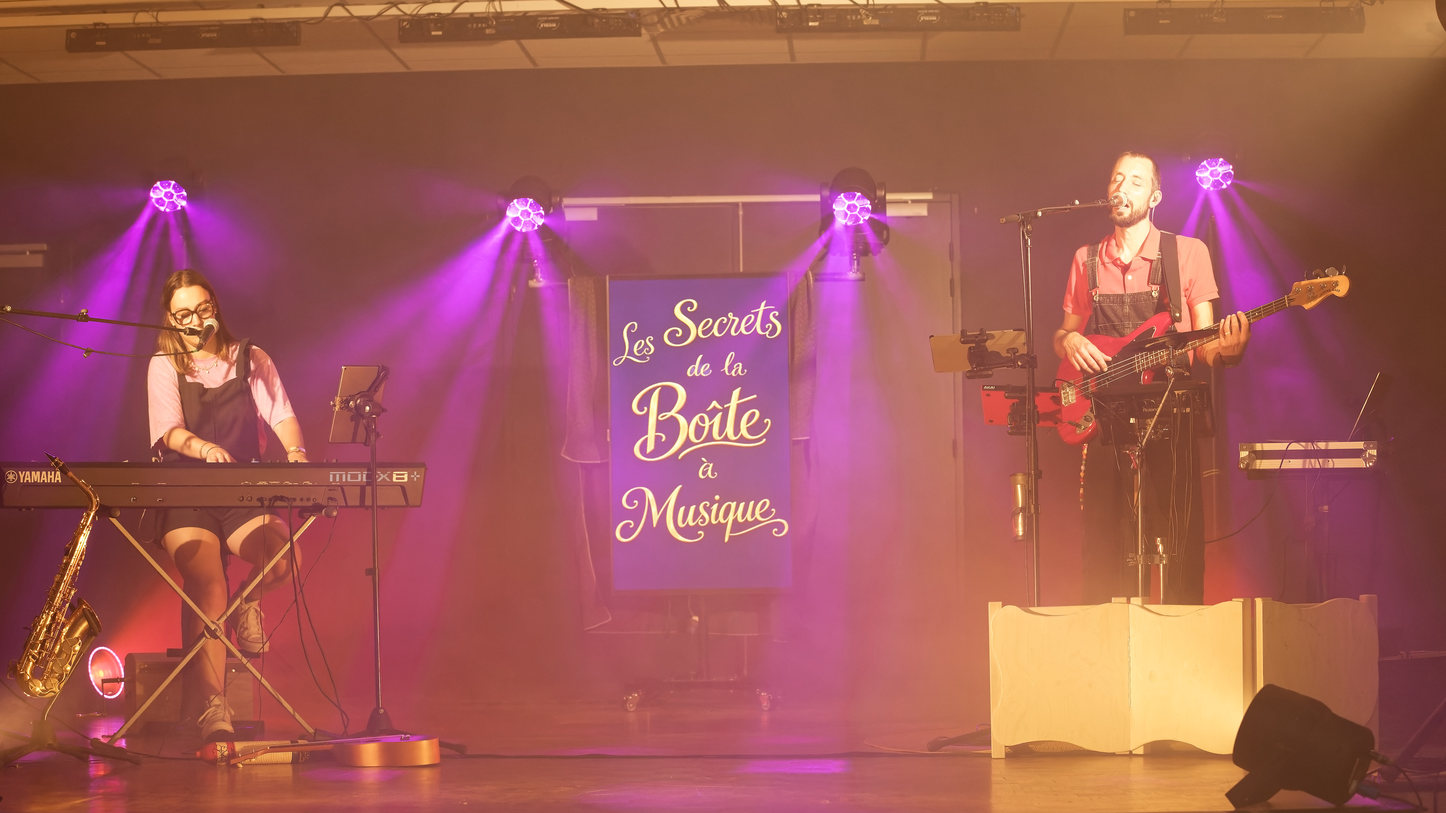
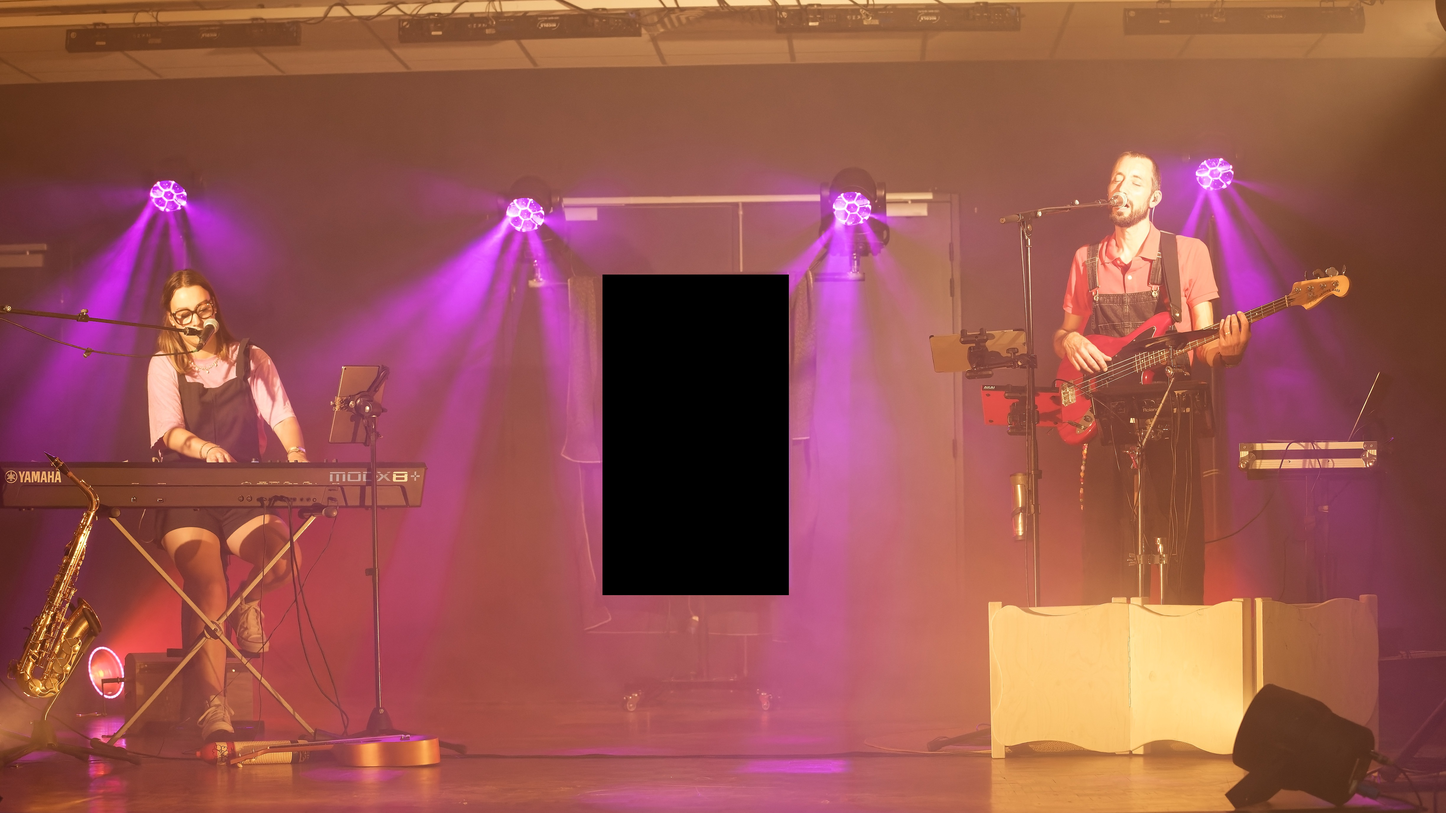
image15.jpeg : bannière de l'ancien nom masquée en noir
Au lieu de remplacer la photo par un écran noir générique, l'écran
affichant « Les secrets de la boîte à musique » en fond de scène est
maintenant rempli de noir directement dans la photo d'origine —
Zoé, Jean et le reste de la scène restent visibles. L'article de la
première à Landeronde et la galerie (onglet Moments de vie) utilisent
cette même photo retouchée.

Claude-Session: https://claude.ai/code/session_01VwhmEemvsoy2hf2cCardvh

Changed region(s): [[0.4062, 0.3123, 0.5625, 0.7495]]

diff --git a/articles/premiere-la-residence-landeronde.html b/articles/premiere-la-residence-landeronde.html
@@ -11,7 +11,7 @@
   <meta property="og:site_name" content="Mémoria">
   <meta property="og:title" content="La première représentation du spectacle à Landeronde">
   <meta property="og:description" content="Le vendredi 4 septembre 2026, « Mémoria » a donné sa première représentation publique à la salle André Astoul, à Landeronde, en Vendée.">
-  <meta property="og:image" content="https://www.etoile-filante-spectacle.fr/assets/images/ecran-noir.jpg">
+  <meta property="og:image" content="https://www.etoile-filante-spectacle.fr/assets/images/image15.jpeg">
   <meta property="og:url" content="https://www.etoile-filante-spectacle.fr/articles/premiere-la-residence-landeronde.html">
   <meta property="article:published_time" content="2026-09-06">
   <meta property="og:locale" content="fr_FR">
@@ -33,7 +33,7 @@
     "datePublished": "2026-09-06",
     "dateModified": "2026-09-06",
     "articleSection": "Tournée",
-    "image": "https://www.etoile-filante-spectacle.fr/assets/images/ecran-noir.jpg",
+    "image": "https://www.etoile-filante-spectacle.fr/assets/images/image15.jpeg",
     "author": { "@type": "Organization", "name": "Compagnie Étoile Filante" },
     "publisher": {
       "@type": "Organization",
@@ -80,7 +80,7 @@
       <h1>La première représentation du spectacle à Landeronde</h1>
 
       <figure class="article__hero">
-        <img src="../assets/images/ecran-noir.jpg" alt="" width="1200" height="800">
+        <img src="../assets/images/image15.jpeg" alt="Zoé au clavier et Jean à la basse, sur scène pendant la représentation" width="1200" height="800">
       </figure>
 
       <div class="article__body">

diff --git a/js/articles.js b/js/articles.js
@@ -24,8 +24,8 @@ window.ARTICLES = [
     title: "La première représentation du spectacle à Landeronde",
     date: "2026-09-06",
     category: "Tournée",
-    image: "assets/images/ecran-noir.jpg",
-    alt: "",
+    image: "assets/images/image15.jpeg",
+    alt: "Zoé au clavier et Jean à la basse, sur scène pendant la représentation",
     excerpt:
       "Le vendredi 4 septembre 2026, « Mémoria » a donné sa première représentation publique à la salle André Astoul, à Landeronde, en Vendée."
   },
